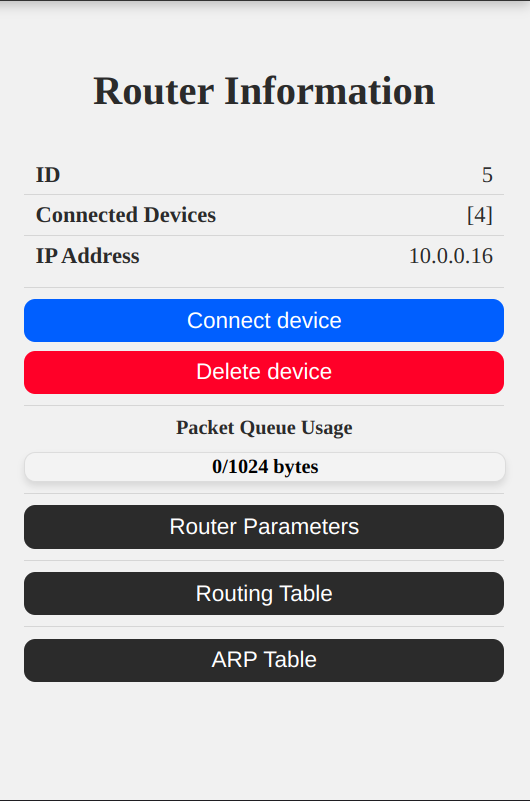
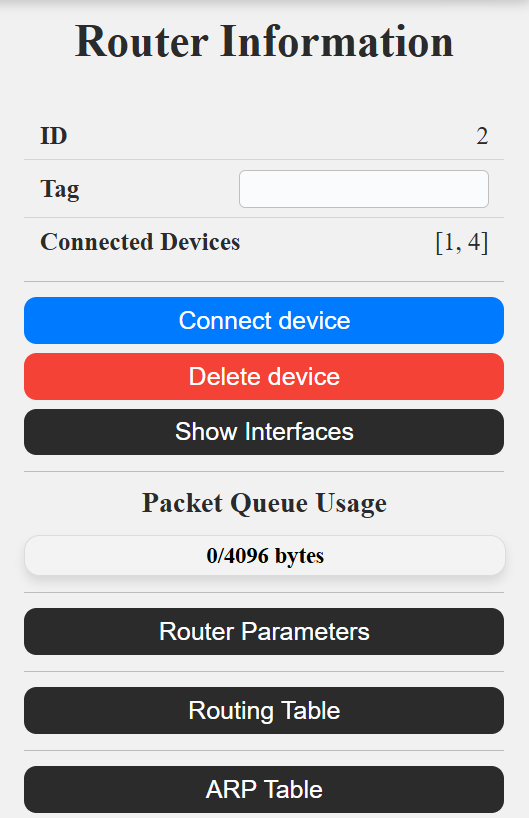
doc: change on devices info and interfaces

diff --git a/README.md b/README.md
@@ -176,13 +176,13 @@ In the simulator, a host is visible on all layers. Given the fact that hosts are
 The information shown in the right bar when selecting a host is as follows:
 
 - **ID**: The ID of the host. This is a simulated unique identifier for the host in the network.
+- **Tag entry**: The tag of the host. This entry allows you to set a personalized name for the host.
 - **Connected Devices**: The devices that are directly connected to this host through edges.
-- **MAC Address**: The MAC address of the host. This is only visible in the Link Layer.
-- **IP Address**: The IP address of the host. This is always visible.
 - **Connect Device Button**: This button allows you to connect the host to another device. First press the Connect Device button and then click on the device you want to connect to. This will create an edge between the two devices. You can only connect
   devices if the host and the other device have free interfaces.
   When you connect a host to another device, it will link the first two unused interfaces of each device. You can change the interfaces used to connect the devices by selecting the [edge](#devices-interfaces) that connects them.
 - **Delete Device Button**: This button allows you to delete the host from the network. This will also delete all edges connected to this host.
+- **Show/Hide Interfaces Button**: This button allows you to show or hide the interfaces of the host. When the interfaces are shown, you can see the IP address and the MAC address of each interface. This is useful to understand how the host is connected to the network. MAC addresses are only visible in the Link Layer.
 - **Program Runner Section**: This section includes a dropdown to select a program and a second button to start the program after
   selecting the program inputs.
 - **ARP Table**: This table shows the translation of the different IP Adresses translations into MAC Adresses. It also allows to edit and refresh these translations.
@@ -322,7 +322,7 @@ When you select an edge that connects two devices, you will see a dropdown menu 
 
 <p align="center">
   <img src="./img/17_Host_Interfaces.png" alt="Host Interfaces" />
-  <img src="./img/18_Router_Interfaces.png" alt="Router Interfaces" />
+  <img src="./img/18_Router_Interfaces.png" alt="Router Interfaces" />![alt text](image.png)
   <img src="./img/19_Switch_Interfaces.png" alt="Switch Interfaces" />
 </p>
 
@@ -511,7 +511,7 @@ The simulator has a print button that allows you to take a snapshot of the curre
 
 The simulator has some keyboard shortcuts to make it easier to use. The shortcuts are as follows:
 
-- **C**: Connect a device to another device. This is the same as pressing the Connect Device button on the right bar. It will only work if the devices involved hace free interfaces.
+- **C**: Connect a device to another device. This is the same as pressing the Connect Device button on the right bar. It will only work if the devices involved have free interfaces.
 - **H**: Open the help modal. This is the same as pressing the Help button on the top bar.
 - **Delete/Backspace**: Delete the selected device, edge or packet. This is the same as pressing the Delete Device, Delete Edge and Discard Packet buttons on the right bar.
 - **SpaceBar**: Play or pause the simulation. This is the same as pressing the Play/Pause button on the canvas.
